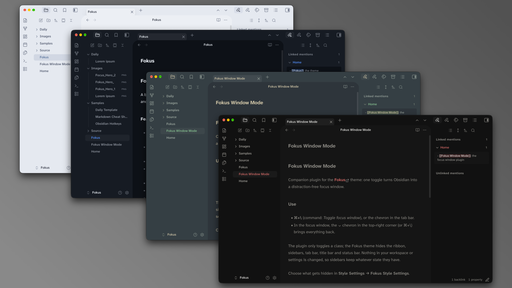
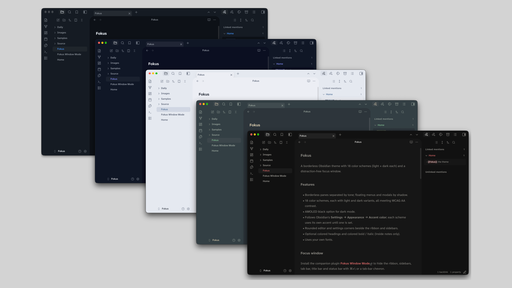
New cover and README screenshot

diff --git a/theme.css b/theme.css
@@ -1,5 +1,5 @@
 /* ============================================================
-   Fokus — v1.10.13
+   Fokus — v1.10.14
    Borderless, 18 color schemes + AMOLED. Focus window via the
    Fokus Window Mode plugin.
    ============================================================ */
